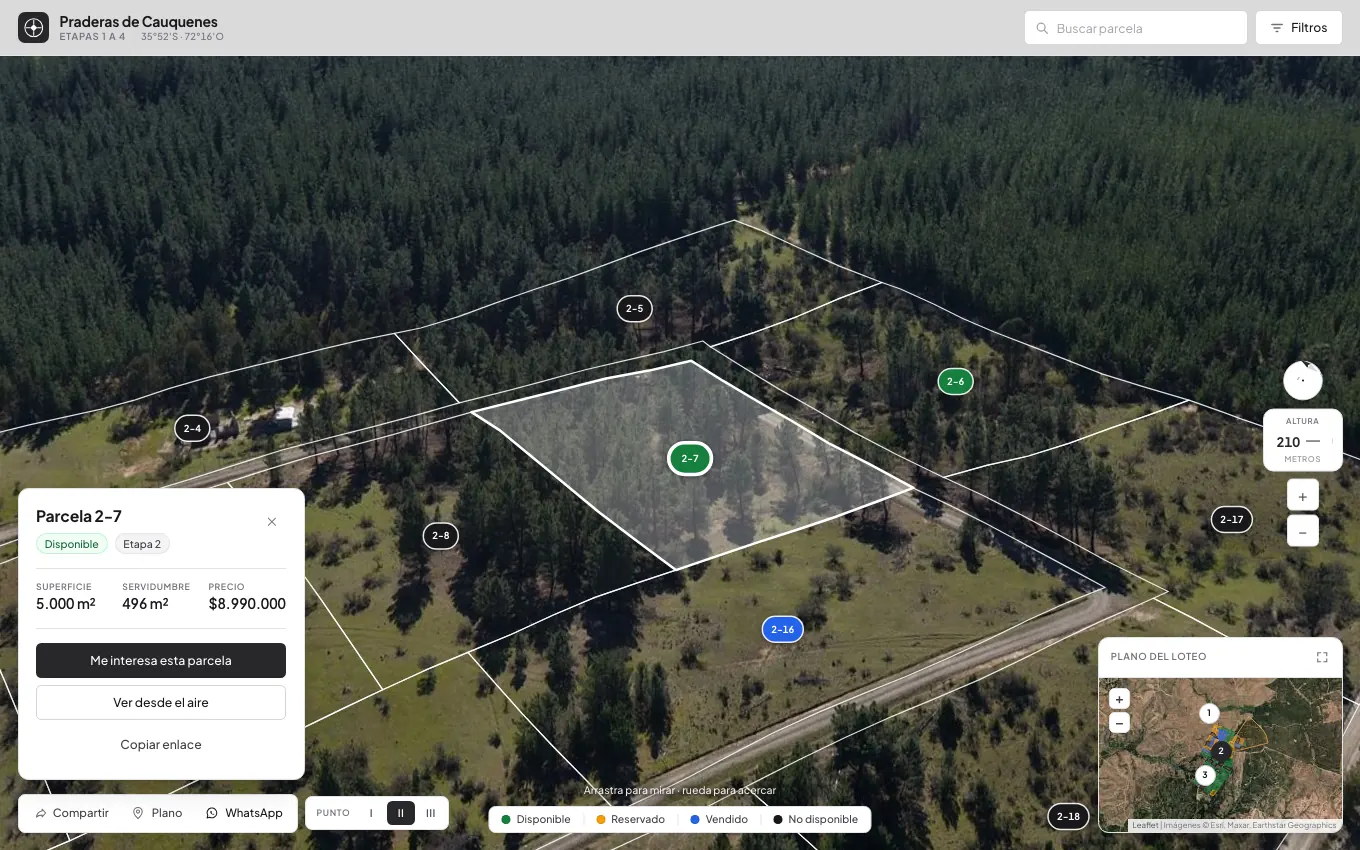
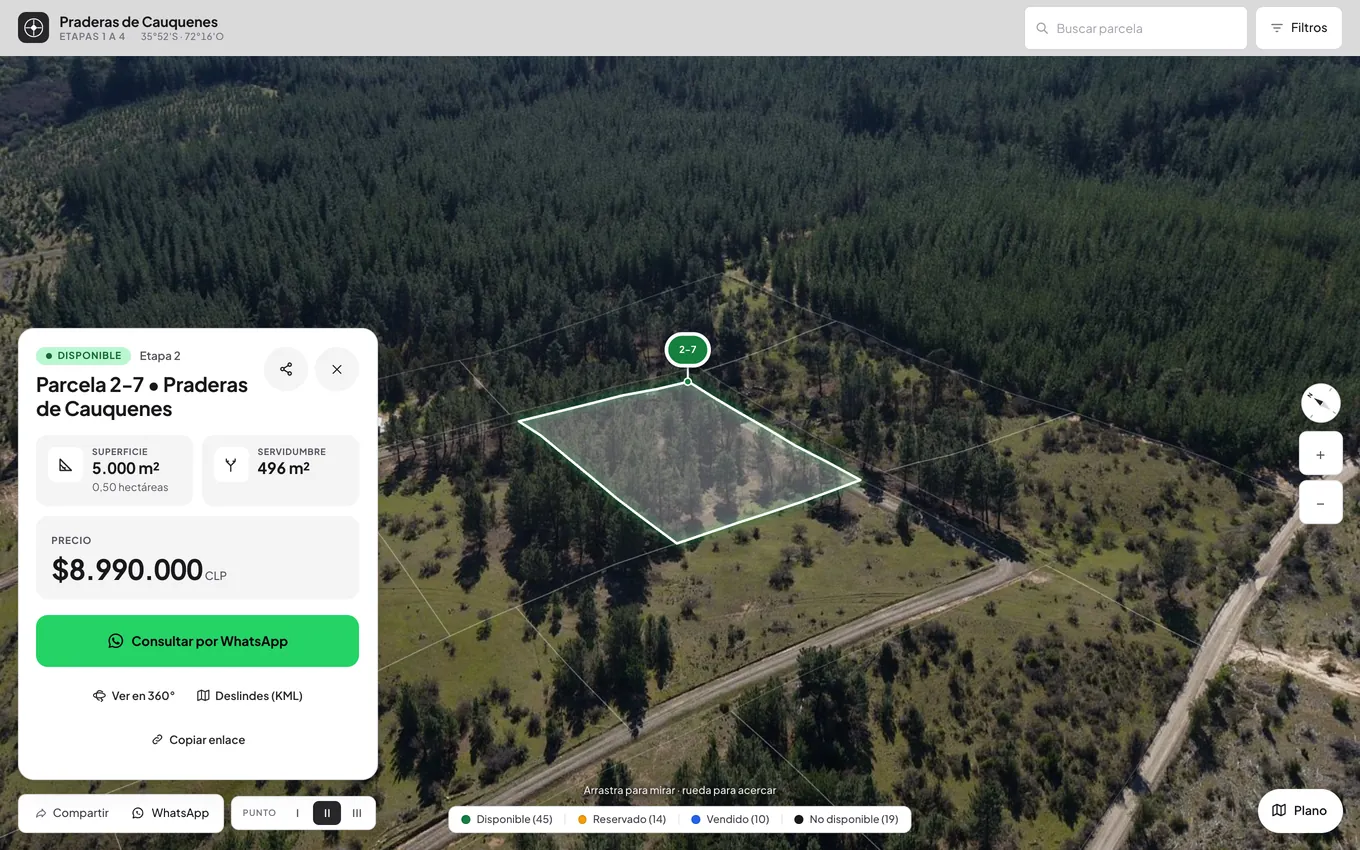
feat: la landing con las vistas nuevas del visor, un iPhone y los pasos con imágenes
Las capturas del visor son del actual (ficha nueva, Consultar por
WhatsApp), y la del teléfono va dentro de un iPhone dibujado en CSS. Los
pasos de «Cómo funciona» dicen lo que la consola hace hoy y cada uno
lleva su imagen: el plano, la foto del dron, la revisión, Nuevo master,
el control de calce y Mis planos.

Corrige dos cosas que la landing decía mal: la consola no acepta DXF (sí
el PDF del plano, vía Crea tu KMZ) y sin planilla las parcelas quedan
como no disponibles, no sin precio.

diff --git a/landing/index.html b/landing/index.html
@@ -58,7 +58,6 @@
   --radio: 12px;
   --radio-bloque: 16px;
   --radio-marco: 20px;
-  --radio-telefono: 22px;
   --sombra-flotante: 0 10px 25px -5px rgb(24 24 27 / 0.15), 0 2px 6px -1px rgb(24 24 27 / 0.06);
   --curva: cubic-bezier(0.16, 1, 0.3, 1);
   --rapido: 150ms;
@@ -306,20 +305,74 @@ h1 {
 .recibe {
   display: grid; align-items: center;
   grid-template-columns: repeat(auto-fit, minmax(min(100%, 420px), 1fr));
-  gap: clamp(40px, 6vw, 96px);
+  gap: clamp(40px, 5vw, 72px);
 }
+/* El teléfono le quita ancho al titular: esa columna pesa un poco más. */
+@media (min-width: 64rem) { .recibe { grid-template-columns: 1.25fr 1fr; } }
 .recibe__cabeza { display: grid; grid-template-columns: minmax(0, 1fr) auto; align-items: end; gap: 20px; }
 .recibe__texto { display: grid; gap: 16px; align-self: start; }
 .recibe__texto p { margin: 0; max-width: 40ch; color: var(--zinc-600); font-size: 17px; text-wrap: pretty; }
-.telefono {
-  display: block; width: clamp(150px, 16vw, 210px); height: auto;
-  border-radius: var(--radio-telefono); border: 6px solid var(--tinta);
-  box-shadow: 0 30px 60px -24px rgb(24 24 27 / 0.45);
+
+/* Un iPhone dibujado en CSS, con las proporciones del 16 Pro (393 × 852 pt). Todo
+   se mide desde su ancho para que se vea igual en cualquier tamaño. */
+.iphone {
+  --iphone: clamp(190px, 19vw, 250px);
+  --bisel: calc(var(--iphone) * 0.035);
+  --pantalla: calc(var(--iphone) - var(--bisel) * 2);
+  --metal: #a8a29e;
+  position: relative; flex: none;
+  width: var(--iphone); margin: 0; padding: var(--bisel);
+  border-radius: calc(var(--iphone) * 0.175);
+  background: #0c0c0d;
+  /* Bisel negro, canto de titanio y la sombra que lo apoya en la página. */
+  box-shadow:
+    inset 0 0 0 1px rgb(255 255 255 / 0.06),
+    0 0 0 1.5px #2a2a2c,
+    0 0 0 3px var(--metal),
+    0 40px 70px -28px rgb(24 24 27 / 0.55);
+}
+/* Botones laterales: volumen (dos) a la izquierda, encendido a la derecha. */
+.iphone::before, .iphone::after {
+  content: ''; position: absolute; width: 3px; border-radius: 2px; background: var(--metal);
+}
+.iphone::before {
+  left: -5px; top: calc(var(--iphone) * 0.48); height: calc(var(--iphone) * 0.2);
+  box-shadow: 0 calc(var(--iphone) * 0.25) 0 var(--metal);
+}
+.iphone::after { right: -5px; top: calc(var(--iphone) * 0.62); height: calc(var(--iphone) * 0.3); }
+
+.iphone__pantalla {
+  position: relative; overflow: hidden;
+  display: grid; grid-template-rows: auto 1fr;
+  aspect-ratio: 393 / 852;
+  border-radius: calc(var(--iphone) * 0.175 - var(--bisel));
+  /* El visor pide theme-color blanco: así pinta Safari la barra de estado. */
+  background: #fff;
+}
+.iphone__estado {
+  position: relative;
+  display: flex; align-items: center; justify-content: space-between;
+  height: calc(var(--pantalla) * 54 / 393);
+  padding: 0 calc(var(--pantalla) * 0.085) 0 calc(var(--pantalla) * 0.1);
+  color: #000; font: 600 calc(var(--pantalla) * 0.041)/1 var(--sans); letter-spacing: -0.01em;
+}
+.iphone__estado svg { height: calc(var(--pantalla) * 0.03); width: auto; }
+.iphone__iconos { display: flex; align-items: center; gap: calc(var(--pantalla) * 0.014); }
+.iphone__isla {
+  position: absolute; left: 50%; top: calc(var(--pantalla) * 0.028);
+  width: calc(var(--pantalla) * 0.32); height: calc(var(--pantalla) * 0.094);
+  border-radius: 999px; background: #000; transform: translateX(-50%);
+}
+.iphone__pantalla img { display: block; width: 100%; height: 100%; object-fit: cover; object-position: top; }
+.iphone__inicio {
+  position: absolute; left: 50%; bottom: calc(var(--pantalla) * 0.02);
+  width: calc(var(--pantalla) * 0.35); height: calc(var(--pantalla) * 0.013);
+  border-radius: 999px; background: rgb(0 0 0 / 0.85); transform: translateX(-50%);
 }
 /* Al lado del texto, en 320 px el titular quedaría en columnas de tres palabras. */
 @media (max-width: 34rem) {
   .recibe__cabeza { grid-template-columns: 1fr; }
-  .telefono { width: 150px; }
+  .iphone { --iphone: 210px; justify-self: center; margin-top: 12px; }
 }
 
 .lista-numerada {
@@ -372,31 +425,39 @@ h1 {
   .selector label { flex: 1; padding: 0 10px; text-align: center; line-height: 1.15; }
 }
 
-.camino { display: grid; gap: 40px; }
+.camino { display: grid; gap: 28px; }
 .camino[data-camino='armas'] { display: none; }
 .como:has([value='armas']:checked) .camino[data-camino='armas'] { display: grid; }
 .como:has([value='armas']:checked) .camino[data-camino='volamos'] { display: none; }
 
 .pasos {
   margin: 0; padding: 0; list-style: none; counter-reset: paso;
-  display: grid; gap: 1px;
-  grid-template-columns: repeat(auto-fit, minmax(min(100%, 280px), 1fr));
-  background: var(--zinc-200); border: 1px solid var(--zinc-200);
-  border-radius: var(--radio-bloque); overflow: hidden;
+  display: grid; gap: clamp(16px, 2vw, 24px);
+  grid-template-columns: repeat(auto-fit, minmax(min(100%, 300px), 1fr));
 }
-.pasos li {
+/* Cada paso con lo que se ve en ese momento: el plano, la foto, la consola. */
+.paso {
   counter-increment: paso;
-  display: grid; align-content: start; gap: 12px;
-  padding: 28px 26px 32px; background: var(--papel);
+  display: grid; grid-template-rows: auto 1fr;
+  background: var(--papel); border: 1px solid var(--zinc-200); border-radius: var(--radio-bloque);
+  overflow: hidden;
 }
-.pasos li::before {
+.paso img {
+  display: block; width: 100%; height: auto; aspect-ratio: 16 / 10; object-fit: cover;
+  border-bottom: 1px solid var(--zinc-200); background: var(--zinc-100);
+}
+/* El número monta el borde entre la imagen y el texto. */
+.paso__texto { position: relative; display: grid; align-content: start; gap: 8px; padding: 34px 24px 28px; }
+.paso__texto::before {
   content: counter(paso);
-  display: grid; place-items: center; width: 36px; height: 36px; margin-bottom: 8px;
+  position: absolute; top: -19px; left: 22px;
+  display: grid; place-items: center; width: 38px; height: 38px;
   border-radius: 50%; background: var(--tinta); color: #fff;
-  font: 700 14px/1 var(--sans);
+  font: 700 15px/1 var(--sans);
+  box-shadow: 0 0 0 4px var(--papel);
 }
-.pasos b { font: 700 19px/1.25 var(--sans); letter-spacing: -0.015em; }
-.pasos span { color: var(--zinc-600); font-size: 15px; text-wrap: pretty; }
+.paso b { font: 700 19px/1.25 var(--sans); letter-spacing: -0.015em; }
+.paso span { color: var(--zinc-600); font-size: 15px; text-wrap: pretty; }
 .camino__nota { margin: 0; color: var(--zinc-600); font-size: 15px; }
 
 .necesitamos { display: grid; gap: 16px; padding-top: 32px; border-top: 1px solid var(--zinc-300); }
@@ -507,9 +568,10 @@ h1 {
   <div class="producto__escena ancho">
     <div class="marco">
       <!-- Sin lazy: en escritorio asoma en la primera pantalla. -->
-      <img src="/producto.webp" width="1360" height="850" decoding="async"
+      <img src="/producto.webp" srcset="/producto.webp 1360w, /producto-2x.webp 2040w"
+           sizes="(min-width: 1212px) 1164px, calc(100vw - 48px)" width="1360" height="850" decoding="async"
            alt="El visor en un computador: la parcela 2-7 resaltada sobre la fotografía aérea, con su ficha
-                mostrando 5.000 m², $8.990.000 y el botón «Me interesa esta parcela».">
+                mostrando 5.000 m², $8.990.000 y el botón «Consultar por WhatsApp».">
     </div>
 
     <div class="flotante flotante--ficha" aria-hidden="true">
@@ -521,7 +583,7 @@ h1 {
       <span class="mensaje__icono">
         <svg viewBox="0 0 20 20"><path d="M3 17l1-3.4A7 7 0 1 1 6.6 16L3 17Z" fill="none" stroke="currentColor" stroke-width="1.6" stroke-linejoin="round"/></svg>
       </span>
-      <span class="mensaje__texto"><b>Mensaje a tu vendedor</b>«Hola, me interesa la parcela 2-7»</span>
+      <span class="mensaje__texto"><b>Mensaje a tu vendedor</b>«Hola, vengo del Masterplan de Praderas de Cauquenes. Me interesa la parcela 2-7»</span>
     </div>
   </div>
   <p class="producto__pie ancho"><b>Praderas de Cauquenes</b> · 88 parcelas en 4 etapas · publicado y en uso</p>
@@ -535,8 +597,22 @@ h1 {
         <h2 id="recibe-titulo">Un enlace de WhatsApp. Nada que instalar.</h2>
         <p>Un sitio propio, con su dirección. No una app ni un PDF que haya que pedirle a alguien.</p>
       </div>
-      <img class="telefono" src="/producto-movil.webp" width="420" height="840" loading="lazy" decoding="async"
-           alt="El visor en un teléfono.">
+      <figure class="iphone">
+        <div class="iphone__pantalla">
+          <div class="iphone__estado" aria-hidden="true">
+            <span>9:41</span>
+            <span class="iphone__isla"></span>
+            <span class="iphone__iconos">
+              <svg viewBox="0 0 18 12"><rect x="0" y="8" width="3" height="4" rx="1"/><rect x="5" y="5.5" width="3" height="6.5" rx="1"/><rect x="10" y="3" width="3" height="9" rx="1"/><rect x="15" y="0" width="3" height="12" rx="1"/></svg>
+              <svg viewBox="0 0 16 12"><path d="M8 2.3a9.6 9.6 0 0 1 6.6 2.6l1.2-1.3A11.4 11.4 0 0 0 8 .5 11.4 11.4 0 0 0 .2 3.6l1.2 1.3A9.6 9.6 0 0 1 8 2.3Zm0 3.6a6 6 0 0 1 4 1.6l1.3-1.3A7.8 7.8 0 0 0 8 4.1a7.8 7.8 0 0 0-5.3 2.1L4 7.5a6 6 0 0 1 4-1.6Zm0 3.6a2.4 2.4 0 0 1 1.5.6L8 11.6 6.5 10.1a2.4 2.4 0 0 1 1.5-.6Z"/></svg>
+              <svg viewBox="0 0 27 12"><rect x="0.5" y="0.5" width="23" height="11" rx="3.5" fill="none" stroke="currentColor" opacity="0.4"/><rect x="2" y="2" width="17" height="8" rx="2"/><path d="M25 4v4a2 2 0 0 0 0-4Z" opacity="0.4"/></svg>
+            </span>
+          </div>
+          <img src="/producto-movil.webp" width="600" height="1221" loading="lazy" decoding="async"
+               alt="El visor en un iPhone: la parcela 2-7 sobre la foto aérea y su ficha con superficie, precio y el botón de WhatsApp.">
+          <span class="iphone__inicio" aria-hidden="true"></span>
+        </div>
+      </figure>
     </div>
 
     <ol class="lista-numerada">
@@ -546,7 +622,7 @@ h1 {
       </li>
       <li>
         <b>Precio, superficie y estado</b>
-        <span>Al día con tu planilla, con el número del lote tal como lo escribe tu CRM —«2-7», no «7».</span>
+        <span>Al día con tu planilla o con Cierra, con el número del lote tal como lo escribe tu CRM —«2-7», no «7».</span>
       </li>
       <li>
         <b>Buscador y filtros</b>
@@ -580,18 +656,42 @@ h1 {
 
     <div class="camino" data-camino="volamos">
       <ol class="pasos">
-        <li><b>Nos mandas el plano</b><span>El KMZ o DXF del topógrafo. No hay que redibujar nada.</span></li>
-        <li><b>Un día de vuelo</b><span>Llegamos con el dron y tomamos las panorámicas desde los puntos que muestran mejor el loteo.</span></li>
-        <li><b>Revisas y publicamos</b><span>Lo ves antes de que salga al aire. Sale con su enlace listo para mandar.</span></li>
+        <li class="paso">
+          <img src="/paso-plano.webp" width="800" height="500" loading="lazy" decoding="async"
+               alt="El plano de subdivisión de Praderas de Cauquenes, con sus lotes numerados.">
+          <div class="paso__texto"><b>Nos mandas el plano</b><span>El KMZ del topógrafo, tal como te lo entregó. ¿Solo tienes el PDF del plano aprobado? Sirve igual: lo pasamos a KMZ nosotros.</span></div>
+        </li>
+        <li class="paso">
+          <img src="/paso-vuelo.webp" width="800" height="500" loading="lazy" decoding="async"
+               alt="Fotografía aérea de Praderas de Cauquenes tomada desde el dron.">
+          <div class="paso__texto"><b>Un día de vuelo</b><span>Llegamos con el dron y tomamos las panorámicas 360 desde los puntos que mejor muestran el loteo.</span></div>
+        </li>
+        <li class="paso">
+          <img src="/paso-revision.webp" width="800" height="500" loading="lazy" decoding="async"
+               alt="La consola con el loteo armado: las parcelas dibujadas sobre la foto aérea.">
+          <div class="paso__texto"><b>Revisas y publicamos</b><span>Lo armamos en tu cuenta y lo ves antes de que salga al aire. Sale con su enlace, listo para mandar.</span></div>
+        </li>
       </ol>
       <p class="camino__nota">Lo más simple si no tienes dron ni quién lo maneje.</p>
     </div>
 
     <div class="camino" data-camino="armas">
       <ol class="pasos">
-        <li><b>Arrastras la carpeta del vuelo</b><span>Tus panorámicas 360 y el plano del topógrafo, en tu cuenta.</span></li>
-        <li><b>Revisas el calce</b><span>Los polígonos tienen que caer sobre los caminos. El control te lo muestra.</span></li>
-        <li><b>Publicas cuando quieras</b><span>Y lo repites cada vez que cambien los precios.</span></li>
+        <li class="paso">
+          <img src="/paso-nuevo.webp" width="800" height="500" loading="lazy" decoding="async"
+               alt="El formulario Nuevo master de la consola: nombre, KMZ, panorámicas e inventario.">
+          <div class="paso__texto"><b>Creas el master</b><span>Subes el KMZ, arrastras la carpeta del vuelo y, si quieres, la planilla de precios o tu inventario de Cierra. ¿Solo tienes el plano en PDF? Crea tu KMZ lo convierte.</span></div>
+        </li>
+        <li class="paso">
+          <img src="/paso-calce.webp" width="800" height="500" loading="lazy" decoding="async"
+               alt="El control de calce: los polígonos del plano en rojo sobre la foto aérea, cayendo sobre los caminos.">
+          <div class="paso__texto"><b>Revisas el calce</b><span>La consola orienta las fotos con el sol y dibuja el plano encima. Los polígonos tienen que caer sobre los caminos.</span></div>
+        </li>
+        <li class="paso">
+          <img src="/paso-publicado.webp" width="800" height="500" loading="lazy" decoding="async"
+               alt="Mis planos en la consola, con el loteo publicado y sus parcelas disponibles.">
+          <div class="paso__texto"><b>Publicas</b><span>Cuando estés conforme. Si cambian los precios, subes la planilla y vuelves a publicar sin procesar las fotos; conectado a Cierra, se actualiza solo.</span></div>
+        </li>
       </ol>
       <p class="camino__nota">Si ya tienes dron, sale más barato.</p>
     </div>
@@ -599,9 +699,9 @@ h1 {
     <div class="necesitamos">
       <h3>Qué necesitamos de ti <span>— tres cosas, y dos ya las tienes.</span></h3>
       <ul>
-        <li><b>El plano digital</b><span>KMZ o DXF del topógrafo, con los lotes numerados. Tal como te lo entregó.</span></li>
-        <li><b>Las panorámicas del dron</b><span>360° equirectangulares a unos 200 m. Si no las tienes, las tomamos nosotros.</span></li>
-        <li><b>Tu planilla de precios <span>· opcional</span></b><span>Sin ella las parcelas salen sin precio: honesto, pero vende menos.</span></li>
+        <li><b>El plano digital</b><span>El KMZ del topógrafo, con los lotes numerados. Si solo tienes el PDF del plano aprobado, también sirve.</span></li>
+        <li><b>Las panorámicas del dron</b><span>Las 360° tal como salen de la cámara, a unos 200 m. Si no las tienes, las tomamos nosotros.</span></li>
+        <li><b>Tu inventario <span>· opcional</span></b><span>La planilla de precios o tu cuenta de Cierra. Sin él, las parcelas salen como no disponibles.</span></li>
       </ul>
     </div>
   </div>

diff --git a/README.md b/README.md
@@ -192,22 +192,25 @@ corresponde.
 
 ## La landing
 
-`landing/` es la página pública de tumasterplan.cl: un HTML, la tipografía y cuatro
-imágenes, ~540 KB en escritorio y **sin una línea de JavaScript** (la CSP la sirve con
-`script-src 'none'`). El hero sale de la panorámica de Cauquenes, reproyectada a
-perspectiva con el mismo cálculo gnomónico que usa el visor.
+`landing/` es la página pública de tumasterplan.cl: un HTML, la tipografía y sus
+imágenes en WebP, **sin una línea de JavaScript** (la CSP la sirve con `script-src
+'none'`; la barra y el selector de caminos van con CSS). El hero sale de la panorámica
+de Cauquenes, reproyectada a perspectiva con el mismo cálculo gnomónico que usa el visor.
 
 Las capturas de `producto*.webp` son del visor real, tomadas con Chrome headless y
-`--use-angle=swiftshader` —sin eso no hay WebGL y la panorámica sale negra—. Se
-regeneran apuntando a un sitio construido; llevan un WhatsApp de ejemplo porque el
-botón de contacto solo se dibuja cuando el loteo tiene número.
+`--use-angle=swiftshader` —sin eso no hay WebGL y la panorámica sale negra—: un sitio
+construido de Praderas con el `web/` actual encima, la parcela 2-7 abierta
+(`?lote=2-7`) y la cámara un paso más lejos. Llevan un WhatsApp de ejemplo porque el
+botón de contacto solo se dibuja cuando el loteo tiene número. La del teléfono se
+captura a 393 × 800 (el iPhone que la enmarca está dibujado en CSS).
 
-No está publicada todavía: faltan el correo y el WhatsApp de verdad. El propio pie de
-la página lo dice, para que no se publique por descuido.
+Las de `paso-*.webp` muestran cada paso de «Cómo funciona»: el plano dibujado desde
+`parcelas.json`, una panorámica cruda, el control de calce y pantallas de la consola
+de la QA local (`docs/qa-local.md`) con la portada y el calce reales de Praderas en
+lugar de los sintéticos.
 
-```bash
-./publicar.sh landing tumasterplan --crear     # cuando estén los datos de contacto
-```
+Está publicada en www.tumasterplan.cl: el proyecto de Vercel está conectado a git con
+raíz `landing/`, así que **cada merge a `main` que la toque la publica**.
 
 ## La consola en línea
 

diff --git a/CLAUDE.md b/CLAUDE.md
@@ -88,5 +88,7 @@ npm run qa:bajar                     # termina los procesos; .qa/ queda
   Cloud Build) y, al arrancar, republica los loteos publicados cuyo visor quedó
   atrasado (`consola/republicar.py`). Un cambio en `web/` llega a los sitios de los
   clientes con el merge.
+- La landing (`landing/`) también sale con el merge: Vercel la publica en
+  www.tumasterplan.cl apenas llega a `main`.
 - Mergear, desplegar o tocar producción (Cloud SQL, el bucket, Vercel) necesita
   autorización explícita.
